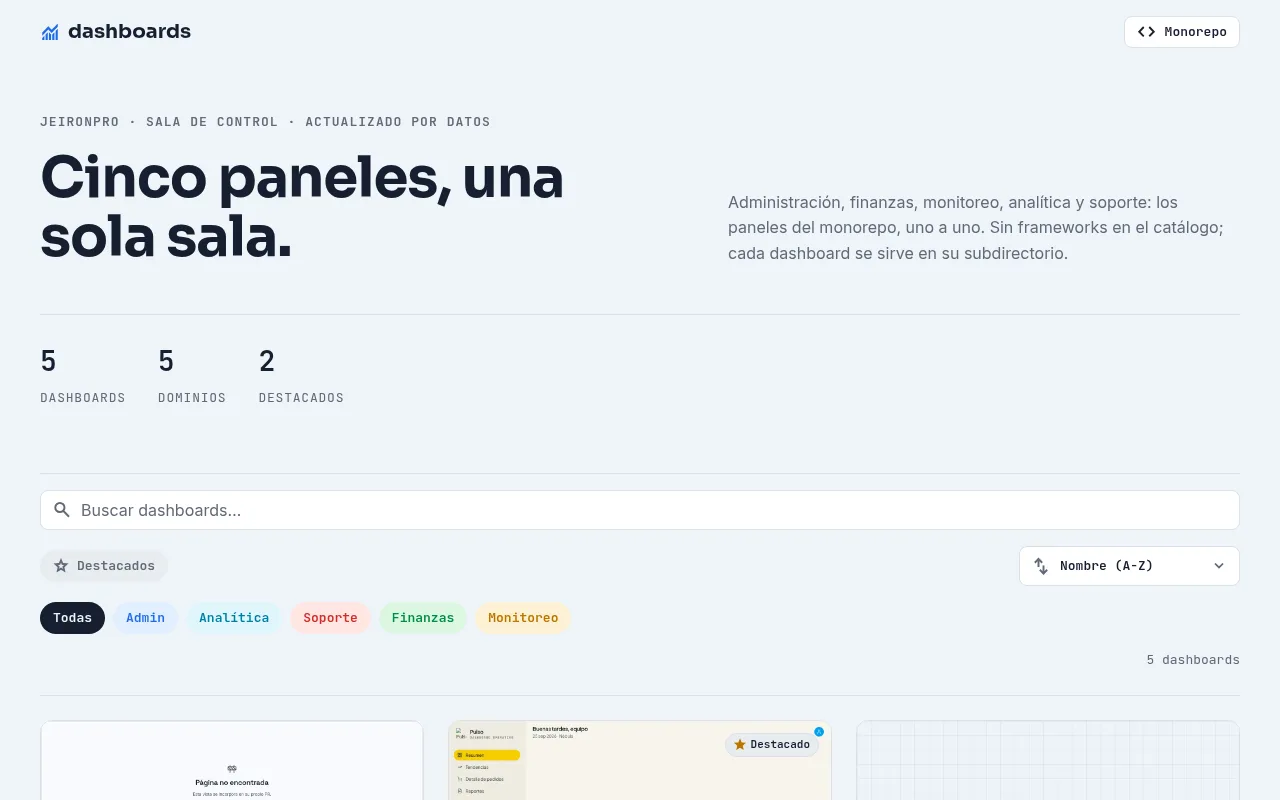
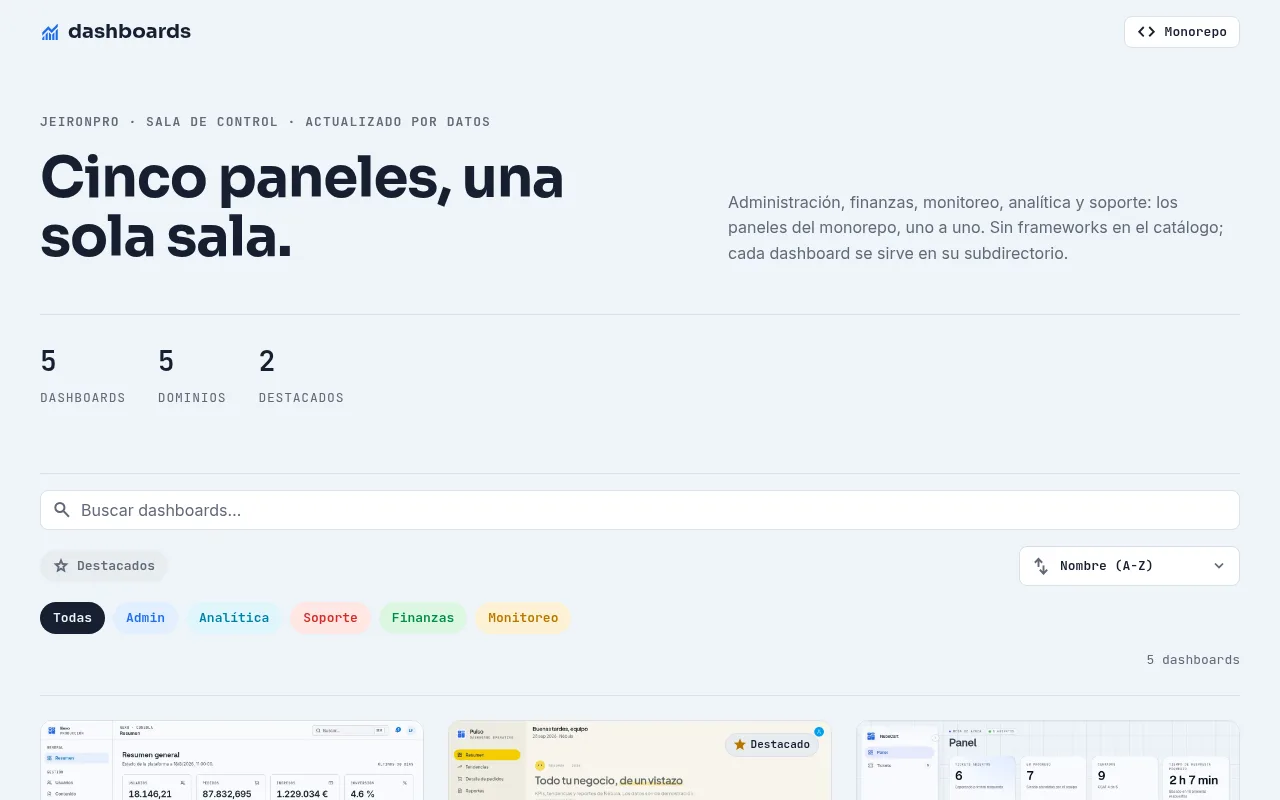
fix/capturas-catalogo: regenera las capturas desfasadas y avisa cuando envejezcan (#59)
* fix/capturas-catalogo: regenera las capturas desfasadas y avisa cuando envejezcan

Actualiza las capturas de web-apis, web-contador-palabras, web-dashboards,
web-frontend, web-juegos y web-daw, que mostraban versiones anteriores a sus
paginas. El generador acepta ids para recapturar solo esas y sella en
assets/screenshots/capturas.json la fecha real de cada captura, y el nuevo
scripts/check-capturas.mjs avisa (workflow capturas) cuando una captura es
anterior al index.html de la pagina que muestra.

* fix/capturas-catalogo: comprobador sin dependencias

check-capturas.mjs leia el catalogo con scripts/lib/data.mjs, que importa yaml;
el workflow capturas no instala node_modules y fallaba. Lee assets/projects.json,
que ya es el dato publicado.

diff --git a/README.md b/README.md
@@ -78,7 +78,8 @@ Las 5 webs marcadas _(sub-catálogo)_ son hubs con catálogo propio: `web-apis` 
 La fuente de verdad es `projects.yml` en la raíz. Los artefactos se regeneran con comandos npm:
 
 - `npm run data:build` valida el esquema y genera `assets/projects.json` (datos ordenados que consume el catálogo).
-- `npm run data:screenshots` captura las 56 webs en `assets/screenshots/*.webp` (Chrome headless sobre un servidor local).
+- `npm run data:screenshots` captura las 56 webs en `assets/screenshots/*.webp` (Chrome headless sobre un servidor local); con ids detrás (`npm run data:screenshots -- web-apis`) regenera solo esas.
+- `npm run capturas:check` avisa si una captura es anterior al `index.html` de su página (fechas de git).
 - `npm test` valida integridad de datos, esquema y generador.
 
 ## Añadir una nueva web
@@ -114,6 +115,7 @@ La fuente de verdad es `projects.yml` en la raíz. Los artefactos se regeneran c
 
    ```sh
    npm run data:screenshots   # solo captura las webs nuevas (las existentes se omiten)
+   npm run capturas:check     # avisa si alguna captura se ha quedado atrás
    npm run data:build
    npm test
    ```
